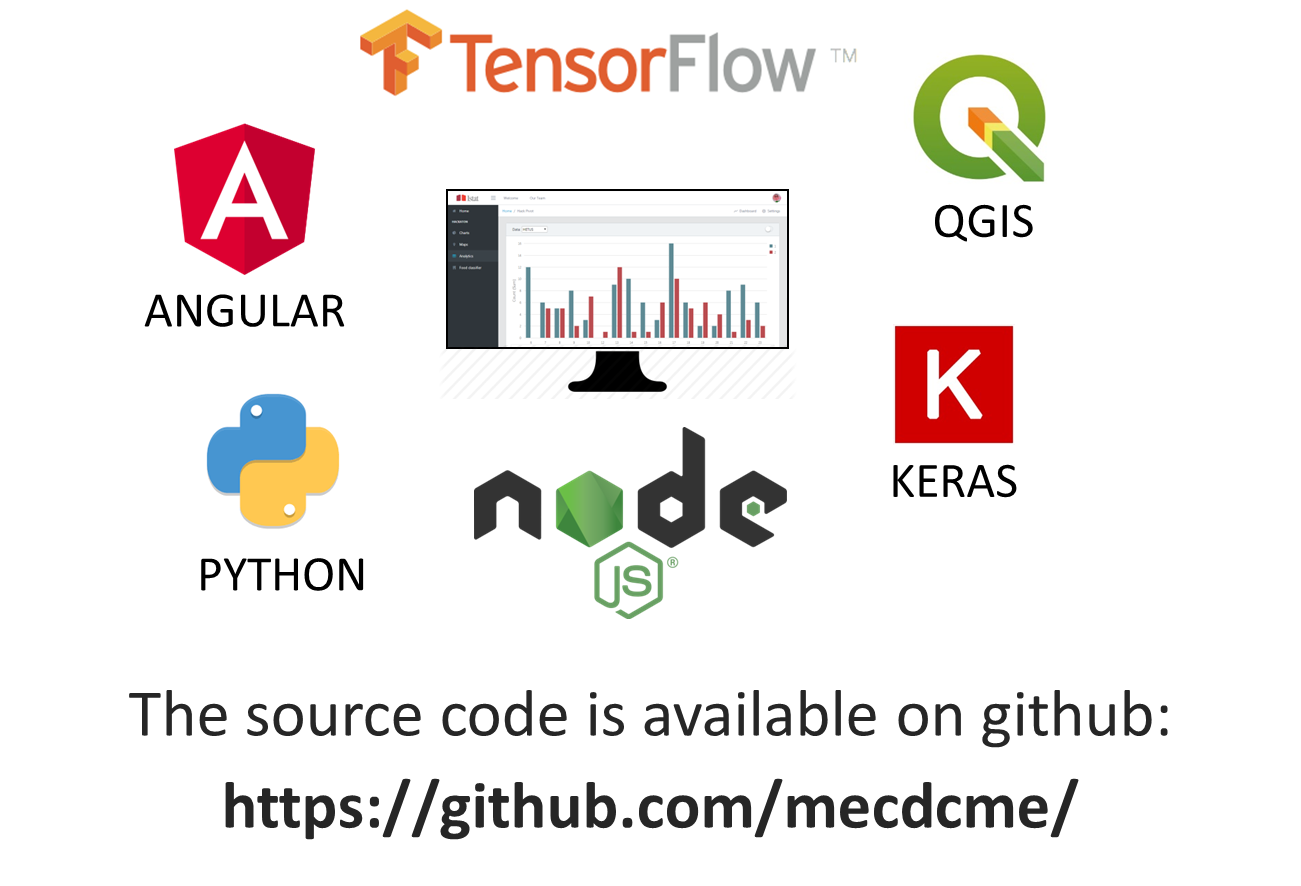
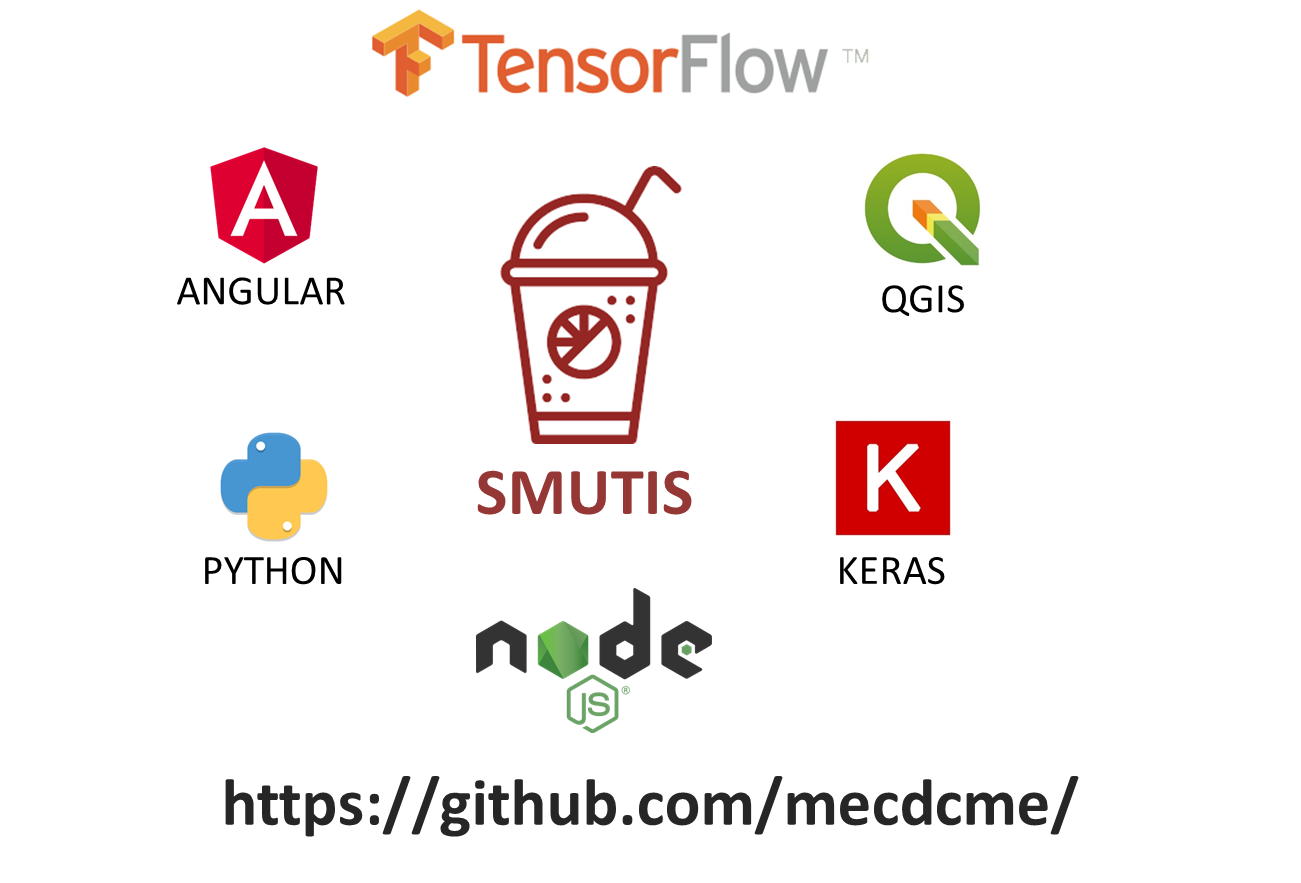
Bigdata hackaton

diff --git a/src/app/views/timereport/timereport.component.ts b/src/app/views/timereport/timereport.component.ts
@@ -19,7 +19,7 @@ export class TimereportComponent implements OnInit {
   public lineChartLabels: Array<any> = [];
   public fieldsFilter: Array<any> = [];
   chartTypeListAll: any[] = [{ caption: "Bar", value: "bar", stack: "false" }, { caption: "Bar Stacked", value: "bar", stack: "false" }, { caption: "H Bar", value: "horizontalBar", stack: "false" }, { caption: "Line", value: "line", stack: "false" }, { caption: "Doughnut", value: "doughnut", stack: "false" }, { caption: "Pie", value: "pie", stack: "false" }, { caption: "Radar", value: "Radar", stack: "false" }, { caption: "PolarArea", value: "polarArea", stack: "false" }];
-  chartTimeList: any[] = [{ caption: "Bar", value: "bar", stack: false }, { caption: "Line", value: "line", stack: false }, { caption: "Bar Stacked", value: "bar", stack: true }, { caption: "Bar Horizontal", value: "horizontalBar", stack: false }, { caption: "Bar Stacked Horizontal", value: "horizontalBar", stack: true }];
+  chartTimeList: any[] = [{ caption: "Doughnut", value: "doughnut", stack: false  }, { caption: "Pie", value: "pie", stack: false  },{ caption: "Bar", value: "bar", stack: false }, { caption: "Line", value: "line", stack: false }, { caption: "Bar Stacked", value: "bar", stack: true }, { caption: "Bar Horizontal", value: "horizontalBar", stack: false }, { caption: "Bar Stacked Horizontal", value: "horizontalBar", stack: true }];
   chartPieList: any[] = [{ caption: "Doughnut", value: "doughnut" }, { caption: "Pie", value: "pie" }, { caption: "Radar", value: "Radar" }, { caption: "PolarArea", value: "polarArea" }];
 
   //reportList: any[]= [  {caption: "eu_activity_time_hour",value: "eu_activity_time_hour"},{caption: "eu_activity_time", value: "eu_activity_time_hour" }, {caption: "eu_sex_time",value: "eu_sex_time"}, {caption: "eu_sex_time_hour",value: "eu_sex_time_hour"}];
@@ -114,12 +114,14 @@ export class TimereportComponent implements OnInit {
     this.ihackservice.getGenericReport(this.reportSel.id, this.reportSel.query_type, params).subscribe(results => {
 
       if (results.length > 0) {
+        if(this.reportSel.report_type=='PIE')  this.updatePieReport(results);
+        else
         this.updateChartReport(results);
       }
       else {
         let elem = { data: [], label: 'No Data' };
-        this.lineChartData.push(elem);
-        this.lineChartLabels = [];
+       // this.lineChartData.push(elem);
+        //this.lineChartLabels = [];
 
       }
 
@@ -170,6 +172,45 @@ export class TimereportComponent implements OnInit {
     }
     this.lineChartLabels = _lineChartLabel_s;
 
+  }
+  public updatePieReport(resultList) {
+
+    let elem = { data: [] };
+    this.lineChartData.push(elem);
+    let _lineChartLabel_s: Array<any> = [];
+
+    //primo elemento
+
+    let jsonEntry ;
+    let arr_nitems: Array<any> = [];
+    let keys ;
+    let firstKey ;
+    let key;
+    let indexk: number = 0;
+    //  let today = new Date();
+    // today.setHours(jsonEntry[firstKey]);
+    //_lineChartLabel_s.push(today);
+    //_lineChartLabel_s.push(jsonEntry[firstKey]);
+    
+    // resultList.length
+    for (let indexa = 0; indexa < resultList.length; indexa++) {
+      jsonEntry = resultList[indexa];
+       keys = Object.keys(jsonEntry);
+      for (let indexk = 2; indexk < keys.length; indexk++) {
+        let keyk = keys[indexk];
+        //let p = new Point(jsonEntry[firstKey], jsonEntry[keyk]);
+        let p = jsonEntry[keyk];
+        this.lineChartData[0].data.push(p);
+        _lineChartLabel_s.push(keyk);
+      }
+      //    let today = new Date();
+      //   today.setHours(jsonEntry[firstKey]);
+      // _lineChartLabel_s.push(today);
+  
+    }
+    this.lineChartLabels = _lineChartLabel_s;
+console.log(this.lineChartLabels);
+console.log(this.lineChartData);
   }
 
   // events

diff --git a/src/app/views/welcome/welcome.component.html b/src/app/views/welcome/welcome.component.html
@@ -1,23 +1,9 @@
 <div class="row">
-    <div class="col-md-2"></div>
-    <div class="col-md-8">
-        <div class="card text-white bg-primary">
-            <div class="card-header">
-                    <h5>European Big Data Hackaton</h5>
-            </div>
+        <div class="col-sm-12 col-md-12">
+          <div class="card">
             <div class="card-body text-center">
-                <h4 class="card-title">
-                    <i class="fa fa-institution fa-2x" aria-hidden="true" style="color:white"></i>
-                    <p>Policy question</p>
-                </h4>
-                <h4 class="card-text">
-                    How can innovative solutions for data collection reduce response burden and 
-                    <br> enrich or replace the statistical information/data provided by 
-                    <br> time use survey?
-                </h4>
-                <a routerLink="/home">Our proposed solution <i class="fa fa-arrow-right"></i></a>
+              <p class="card-text"><img src="assets/img/architecture/frameworks.png" width="60%" /></p>
             </div>
-        </div> 
-        <div class="col-md-2"></div>
-    </div>
-</div>
+          </div>
+        </div>
+      </div>

diff --git a/src/app/app-routing.module.ts b/src/app/app-routing.module.ts
@@ -29,7 +29,7 @@ export const routes: Routes = [
     path: 'home',
     component: HomeComponent,
     data: {
-      title: 'Eurostat Big Data Hackaton'
+      title: 'Welcome to SMart Use of TIme Statistics (SMUTIS)'
     }
   },
   {
@@ -50,7 +50,7 @@ export const routes: Routes = [
     path: 'welcome',
     component: WelcomeComponent,
     data: {
-      title: 'Welcome to SMart Use of TIme Statistics (SMOTIS)'  
+      title: 'Welcome to SMart Use of TIme Statistics (SMUTIS)'  
     }
   },
   {
